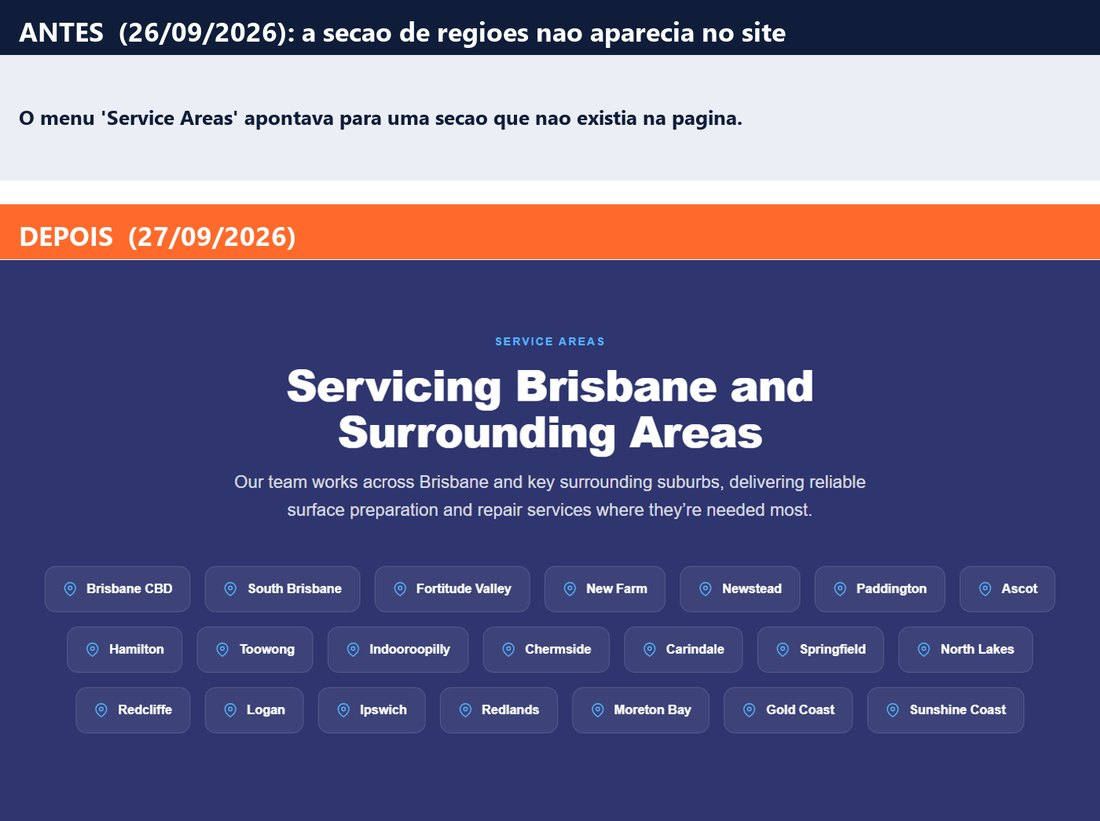
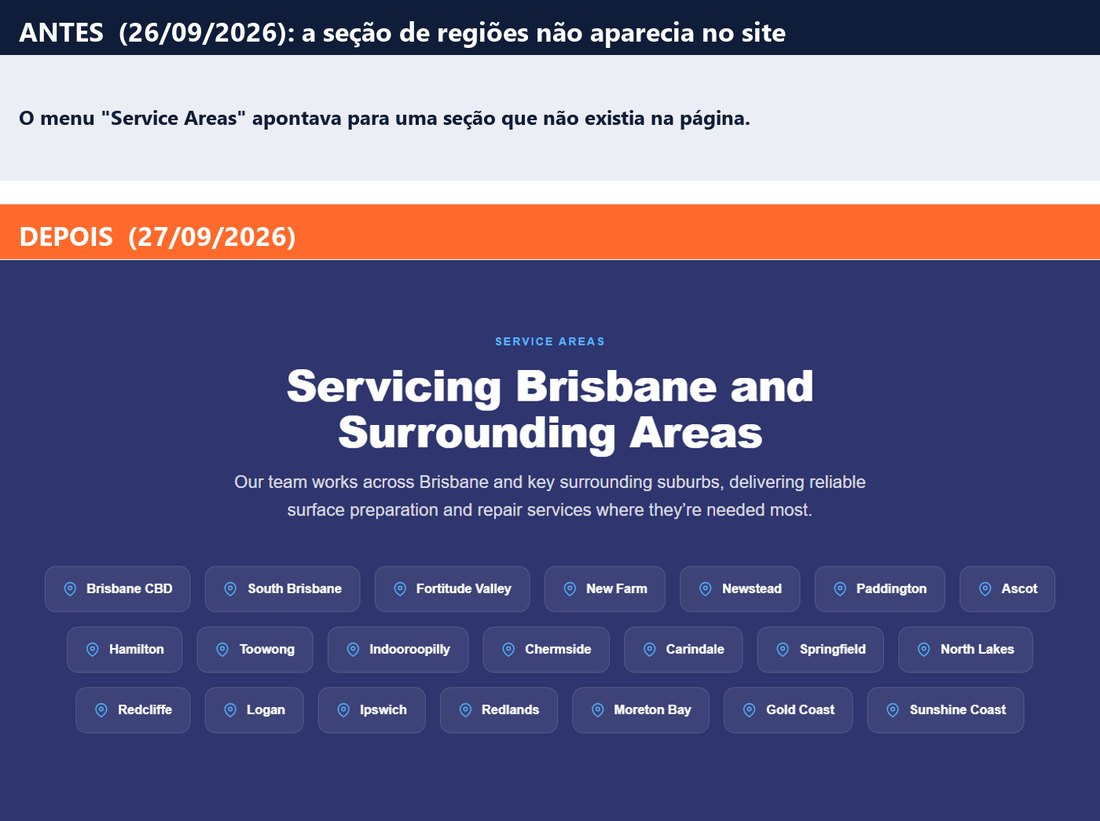
Relatorio do site: faixa da secao de regioes com acentuacao

Changed region(s): [[0.0927, 0.1218, 0.68, 0.1827]]

diff --git a/relatorio-site-setembro2026.html b/relatorio-site-setembro2026.html
@@ -129,7 +129,7 @@
     <figure><img src="assets/site-setembro2026/par-hero.jpg?v=27set" alt="Capa do site, antes e depois" loading="lazy"><figcaption>Capa. O texto agora fala com builders, fit-out comercial e property managers.</figcaption></figure>
     <figure><img src="assets/site-setembro2026/par-services.jpg?v=27set" alt="Seção de serviços, antes e depois" loading="lazy"><figcaption>Serviços. A frase de abertura mudou e passou a citar South East Queensland.</figcaption></figure>
     <figure><img src="assets/site-setembro2026/par-projects.jpg?v=27set" alt="Seção de projetos, antes e depois" loading="lazy"><figcaption>Projetos. "Residential and commercial projects" virou "Commercial and builder projects".</figcaption></figure>
-    <figure><img src="assets/site-setembro2026/par-areas.jpg?v=27set" alt="Seção de regiões: não existia antes, aparece depois" loading="lazy"><figcaption>Regiões. Antes, o menu levava a uma seção que não aparecia. Agora são 21 localidades, com Gold Coast e Sunshine Coast.</figcaption></figure>
+    <figure><img src="assets/site-setembro2026/par-areas.jpg?v=27set2" alt="Seção de regiões: não existia antes, aparece depois" loading="lazy"><figcaption>Regiões. Antes, o menu levava a uma seção que não aparecia. Agora são 21 localidades, com Gold Coast e Sunshine Coast.</figcaption></figure>
     <figure><img src="assets/site-setembro2026/par-faq.jpg?v=27set" alt="Perguntas frequentes, antes e depois" loading="lazy"><figcaption>Perguntas frequentes. Duas respostas deixaram de falar em "residential".</figcaption></figure>
     <figure><img src="assets/site-setembro2026/par-google-antes.jpg?v=27set" alt="Busca no Google antes da correção, mostrando logo brisbane surface solutions" loading="lazy"><figcaption>Busca no Google, antes. A linha azul dizia "logo brisbane surface solutions" porque o título da página não trazia o nome da empresa. O "depois" entra aqui quando o Google atualizar o resultado, o que costuma levar alguns dias.</figcaption></figure>
     <div class="note">O que ficou de fora de propósito: as 18 atualizações pendentes do WordPress (pedem cópia de segurança antes) e os depoimentos, que são fala de cliente e não se mexe sem combinar.</div>
